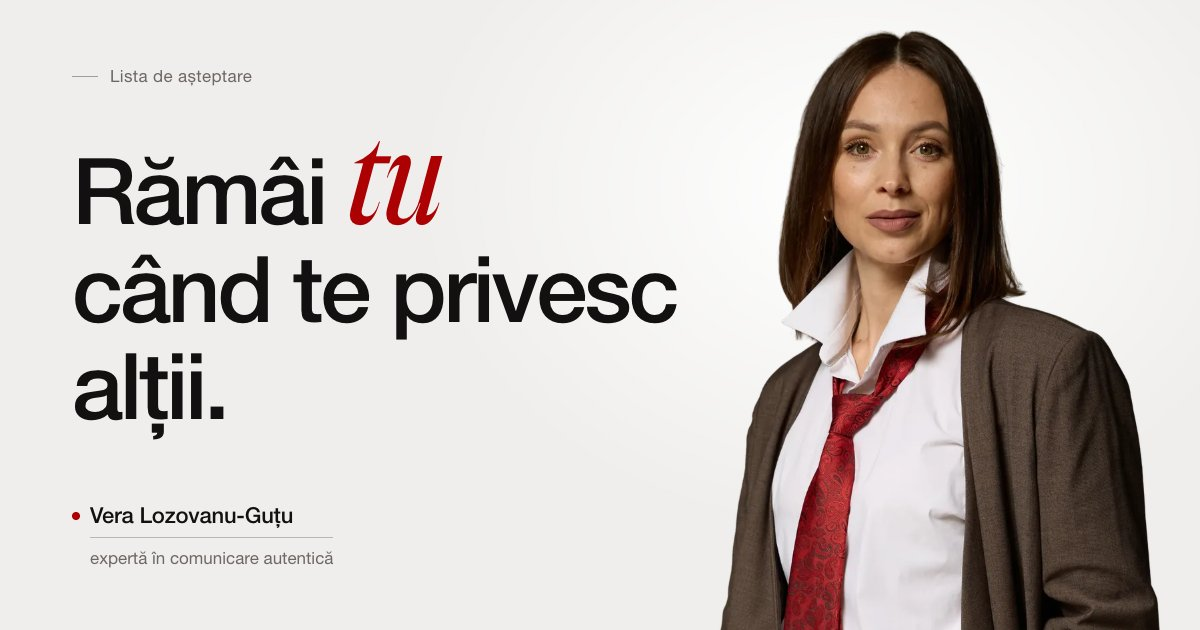
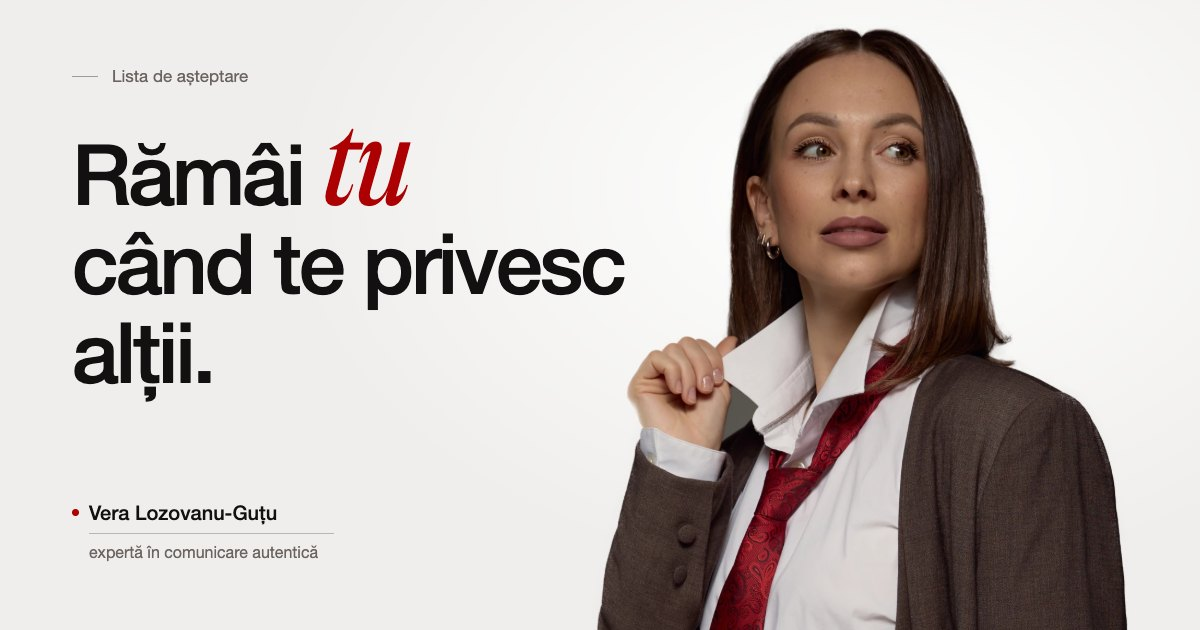
Pozele noi ale Verei: decupate și puse pe landing
- poze-vera-decupate/: cele 15 fotografii editate („obrabotannye”), cu fundalul
  scos (macOS Vision + closed-form matting pe margini, fără contur de fundal),
  WebP cu transparență la 3000px, plus un README cu locul fiecăreia pe pagină.
- Landing: toate pozele Verei înlocuite cu cele noi (hero, cele 6 stări din
  Decor, MPA, Cine sunt, final, /multumesc), copii web de 2000px în public/img.
  Pozele vechi au fost scoase.
- og.jpg refăcut cu noua poză din hero.

diff --git a/src/lib/content.ts b/src/lib/content.ts
@@ -123,13 +123,13 @@ export type DecorTone = 'mint' | 'spot' | 'brown' | 'red'
 
 export const DECOR = {
   intro: 'Nu construim zece versiuni ale tale.',
-  introImg: 'vera-rade',
+  introImg: 'vera-alb-brate-deschise',
   role: 'Rolul: tu',
   sets: [
-    { name: 'Camera', line: 'Reelul pe care îl amâni de o\u00a0lună.', tone: 'mint' as DecorTone, img: 'vera-mana' },
-    { name: 'Ședința', line: 'Luni, la zece, cu toți ochii pe tine.', tone: 'spot' as DecorTone, img: 'vera-costum' },
-    { name: 'Acasă', line: 'Discuția pe care o\u00a0tot ocolești.', tone: 'brown' as DecorTone, img: 'vera-portret' },
-    { name: 'Scena', line: 'Cinci minute la microfon, cu ai tăi în sală.', tone: 'red' as DecorTone, img: 'vera-dans' },
+    { name: 'Camera', line: 'Reelul pe care îl amâni de o\u00a0lună.', tone: 'mint' as DecorTone, img: 'vera-piele-zambet' },
+    { name: 'Ședința', line: 'Luni, la zece, cu toți ochii pe tine.', tone: 'spot' as DecorTone, img: 'vera-negru-intreaga' },
+    { name: 'Acasă', line: 'Discuția pe care o\u00a0tot ocolești.', tone: 'brown' as DecorTone, img: 'vera-negru-asezata-zambet' },
+    { name: 'Scena', line: 'Cinci minute la microfon, cu ai tăi în sală.', tone: 'red' as DecorTone, img: 'vera-esarfa-sus' },
   ],
   outro: ['Decorul se schimbă.', 'Tu rămâi.', ''] as Title,
   outroSub: 'Asta lucrăm cu MPA: același om pe cameră, la ședință, acasă și pe scenă.',

diff --git a/src/sections/About.tsx b/src/sections/About.tsx
@@ -17,10 +17,10 @@ export function About() {
       <div className="wrap grid gap-10 pt-[clamp(96px,11vw,168px)] lg:grid-cols-[0.95fr_1.05fr] lg:gap-16">
         <div className="relative order-2 -mx-5 h-[70svh] max-h-[760px] min-h-[460px] overflow-hidden sm:mx-0 lg:order-1 lg:h-[780px] lg:overflow-visible">
           <img
-            src={IMG('vera-portret')}
+            src={IMG('vera-negru-portret')}
             alt="Vera Lozovanu-Guțu, portret, în rochie neagră"
-            width={1094}
-            height={1500}
+            width={1296}
+            height={2000}
             loading="lazy"
             className="absolute bottom-0 left-1/2 h-full w-auto max-w-none -translate-x-1/2 select-none"
             draggable={false}

diff --git a/src/sections/Hero.tsx b/src/sections/Hero.tsx
@@ -57,10 +57,10 @@ export function Hero() {
         <div className="relative -mx-5 mt-6 h-[62svh] md:mx-0 md:mt-0 md:h-auto">
           <motion.div style={{ y: veraY }} className="absolute bottom-0 left-1/2 h-full -translate-x-1/2 md:h-[min(90svh,calc(100svh_-_88px),68vw,960px)]">
             <img
-              src={IMG('vera-costum')}
+              src={IMG('vera-costum-cravata')}
               alt="Vera Lozovanu-Guțu, în costum, cu cravată roșie"
-              width={748}
-              height={1800}
+              width={780}
+              height={2000}
               fetchPriority="high"
               className="anim-fade-in h-full w-auto max-w-none select-none"
               draggable={false}

diff --git a/src/sections/Method.tsx b/src/sections/Method.tsx
@@ -16,11 +16,11 @@ export function Method() {
   return (
     <section id="metoda" ref={ref} data-tone="dark" className="ground-stage relative overflow-hidden section">
       <img
-        src={IMG('vera-gand')}
+        src={IMG('vera-negru-profil-asezata')}
         alt=""
         aria-hidden="true"
-        width={995}
-        height={1500}
+        width={1552}
+        height={2000}
         loading="lazy"
         className="pointer-events-none absolute right-[max(-6%,calc(50%_-_800px))] top-24 hidden h-[640px] w-auto opacity-90 [mask-image:linear-gradient(to_bottom,black_55%,transparent),linear-gradient(to_left,black_60%,transparent)] [mask-composite:intersect] min-[1180px]:block"
       />

diff --git a/src/sections/Decor.tsx b/src/sections/Decor.tsx
@@ -37,11 +37,11 @@ const stageAt = (v: number) =>
 /* toate cadrele, o singură dată: intro/final + câte unul pe decor */
 const FRAMES = [DECOR.introImg, ...SETS.map((s) => s.img)]
 const SIZES: Record<string, [number, number]> = {
-  'vera-rade': [1058, 1700],
-  'vera-mana': [679, 1600],
-  'vera-costum': [748, 1800],
-  'vera-portret': [1094, 1500],
-  'vera-dans': [1325, 1600],
+  'vera-alb-brate-deschise': [1441, 2000],
+  'vera-piele-zambet': [1217, 2000],
+  'vera-negru-intreaga': [780, 2000],
+  'vera-negru-asezata-zambet': [1186, 2000],
+  'vera-esarfa-sus': [1073, 2000],
 }
 
 /* Preferința de mișcare se citește o singură dată, la montare.

diff --git a/src/sections/Final.tsx b/src/sections/Final.tsx
@@ -24,10 +24,10 @@ export function Final() {
         </div>
         <div className="relative h-[60svh] md:h-[86svh]">
           <img
-            src={IMG('vera-esarfa')}
+            src={IMG('vera-esarfa-dans')}
             alt="Vera dansând, cu o eșarfă albă în mișcare"
-            width={1533}
-            height={1600}
+            width={1637}
+            height={2000}
             loading="lazy"
             className="absolute bottom-0 left-1/2 h-full w-auto max-w-none -translate-x-1/2 select-none md:left-[45%] lg:left-[60%] xl:left-[58%]"
             draggable={false}

diff --git a/src/sections/ThankYou.tsx b/src/sections/ThankYou.tsx
@@ -133,11 +133,11 @@ export function ThankYou({ lead, onBack }: { lead: Lead; onBack: () => void }) {
         </div>
         <div className="relative h-[48svh] md:h-[82svh] md:self-end">
           <img
-            src={IMG('vera-esarfa')}
+            src={IMG('vera-piele-rade')}
             alt=""
             aria-hidden="true"
-            width={1533}
-            height={1600}
+            width={884}
+            height={2000}
             className="anim-fade-in absolute bottom-0 left-1/2 h-full w-auto max-w-none -translate-x-1/2"
           />
         </div>

diff --git a/index.html b/index.html
@@ -20,7 +20,7 @@
     <meta name="theme-color" content="#efeeec" />
     <link rel="preload" href="/fonts/OTMiniature-Regular.woff2" as="font" type="font/woff2" crossorigin />
     <link rel="preload" href="/fonts/OTMiniature-RegularItalic.woff2" as="font" type="font/woff2" crossorigin />
-    <link rel="preload" href="/img/vera-costum.webp" as="image" />
+    <link rel="preload" href="/img/vera-costum-cravata.webp" as="image" />
   </head>
   <body>
     <div id="root"></div>

diff --git a/poze-vera-decupate/README.md b/poze-vera-decupate/README.md
@@ -1,0 +1,29 @@
+# Pozele Verei, decupate
+
+Cele 15 fotografii editate din ședința foto (folderul „obrabotannye”), cu fundalul scos.
+Sunt WebP cu transparență, la 3000px înălțime, bune pentru Figma, Stories, prezentări sau alte pagini.
+
+Fundalul a fost scos cu motorul de decupare din macOS (Vision). Marginile au fost rafinate cu
+closed-form matting, pentru firele de păr, și curățate de culoarea fundalului de studio, ca să
+nu rămână contur pe fundaluri colorate.
+
+| Fișier | Unde apare pe landing |
+|---|---|
+| vera-costum-cravata-0K0A8005 | Hero și imaginea de share (og.jpg) |
+| vera-alb-brate-deschise-0K0A7336 | Decor: intro și final |
+| vera-piele-zambet-0K0A7687 | Decor: Camera |
+| vera-negru-intreaga-0K0A7629 | Decor: Ședința |
+| vera-negru-asezata-zambet-0K0A7604 | Decor: Acasă |
+| vera-esarfa-sus-0K0A7410 | Decor: Scena |
+| vera-negru-profil-asezata-0K0A7478 | Metoda (MPA) |
+| vera-negru-portret-0K0A7525 | Cine sunt |
+| vera-esarfa-dans-0K0A7416 | Final |
+| vera-piele-rade-0K0A7696 | Pagina /multumesc |
+| vera-alb-negru-portret-0K0A7534 | nefolosită încă |
+| vera-negru-spate-1-0K0A7672 | nefolosită încă |
+| vera-negru-spate-2-0K0A7674 | nefolosită încă |
+| vera-costum-perete-0K0A7856 | nefolosită încă (pe original se sprijinea de perete) |
+| vera-costum-portret-0K0A7949 | nefolosită încă |
+
+Pe landing se folosesc copii optimizate pentru web, la 2000px înălțime, în `public/img/`.
+Folderul acesta nu intră în build-ul site-ului.

diff --git a/README.md b/README.md
@@ -42,6 +42,7 @@ Tot textul stă în [`src/lib/content.ts`](src/lib/content.ts).
 - **Titluri:** Helvetica Neue, cu **un** cuvânt în OT Miniature italic roșu (`SectionTitle` din `components/ui.tsx`).
 - **Roșul `#AD0003`** e doar accent: butoane, cuvântul din titlu, cifre.
 - **Animații puține:** o singură apariție discretă la scroll, blocul „Decorul” și un parallax ușor în hero.
+- **Poze:** cele 15 fotografii editate ale Verei, decupate, stau în [`poze-vera-decupate/`](poze-vera-decupate/), la 3000px. Acolo e și lista cu locul fiecăreia pe pagină. Copiile web folosite pe landing sunt în `public/img/`.
 
 ## Ce mai lipsește
 
